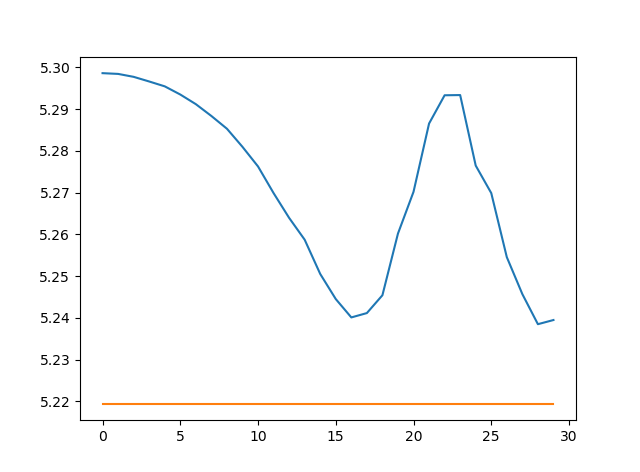
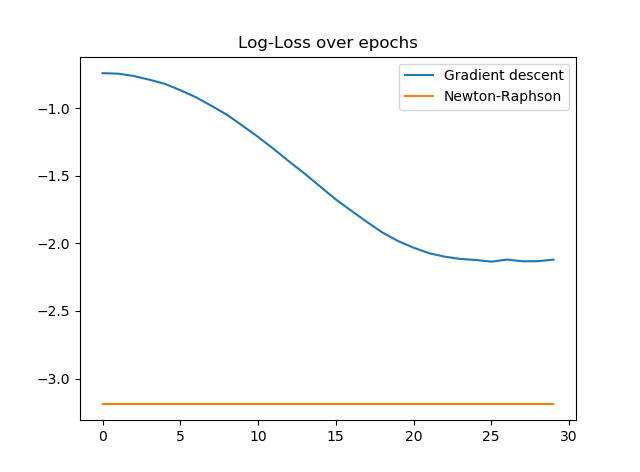
v3

diff --git a/pytorch.py b/pytorch.py
@@ -1,3 +1,6 @@
+#Training a 1-hidden layer neural network using the PyTorch library.
+
+
 import  numpy as np 
 import matplotlib.pyplot as plt 
 from scipy.linalg import qr
@@ -21,7 +24,7 @@ lr = 1e-7 #learning rate (default 1e-5)
 alpha = 0.9 #momentum parameter (default 0.9)
 sigma = 0.5
 mu = 0
-ev = 1e2 #max eigenvalue (default 1e0)
+ev = 1e0 #max eigenvalue (default 1e0)
 criterion = nn.MSELoss() #loss
 
 
@@ -156,8 +159,10 @@ for i in range(epochs):
 
 #PLOTTING THE LOSS
 
-plt.plot(np.log(np.array(losses_gd)))
-plt.plot(np.log(np.array(losses_newton)))
+plt.plot(np.log(np.array(losses_gd)), label="Gradient descent")
+plt.plot(np.log(np.array(losses_newton)), label="Newton-Raphson")
+plt.title('Log-Loss over epochs')
+plt.legend()
 #plt.ylim(ymin=-50, ymax=50)
 plt.show()
 

diff --git a/np_manual.py b/np_manual.py
@@ -1,3 +1,6 @@
+#Training a 1-hidden layer neural network with backpropagation done manually.
+
+
 import  numpy as np 
 import matplotlib.pyplot as plt 
 from scipy.linalg import qr

diff --git a/tensorf.py b/tensorf.py
@@ -1,3 +1,6 @@
+#Training a 1-hidden layer neural network using the Tensorflow library.
+
+
 import  numpy as np 
 import matplotlib.pyplot as plt 
 from scipy.linalg import qr
